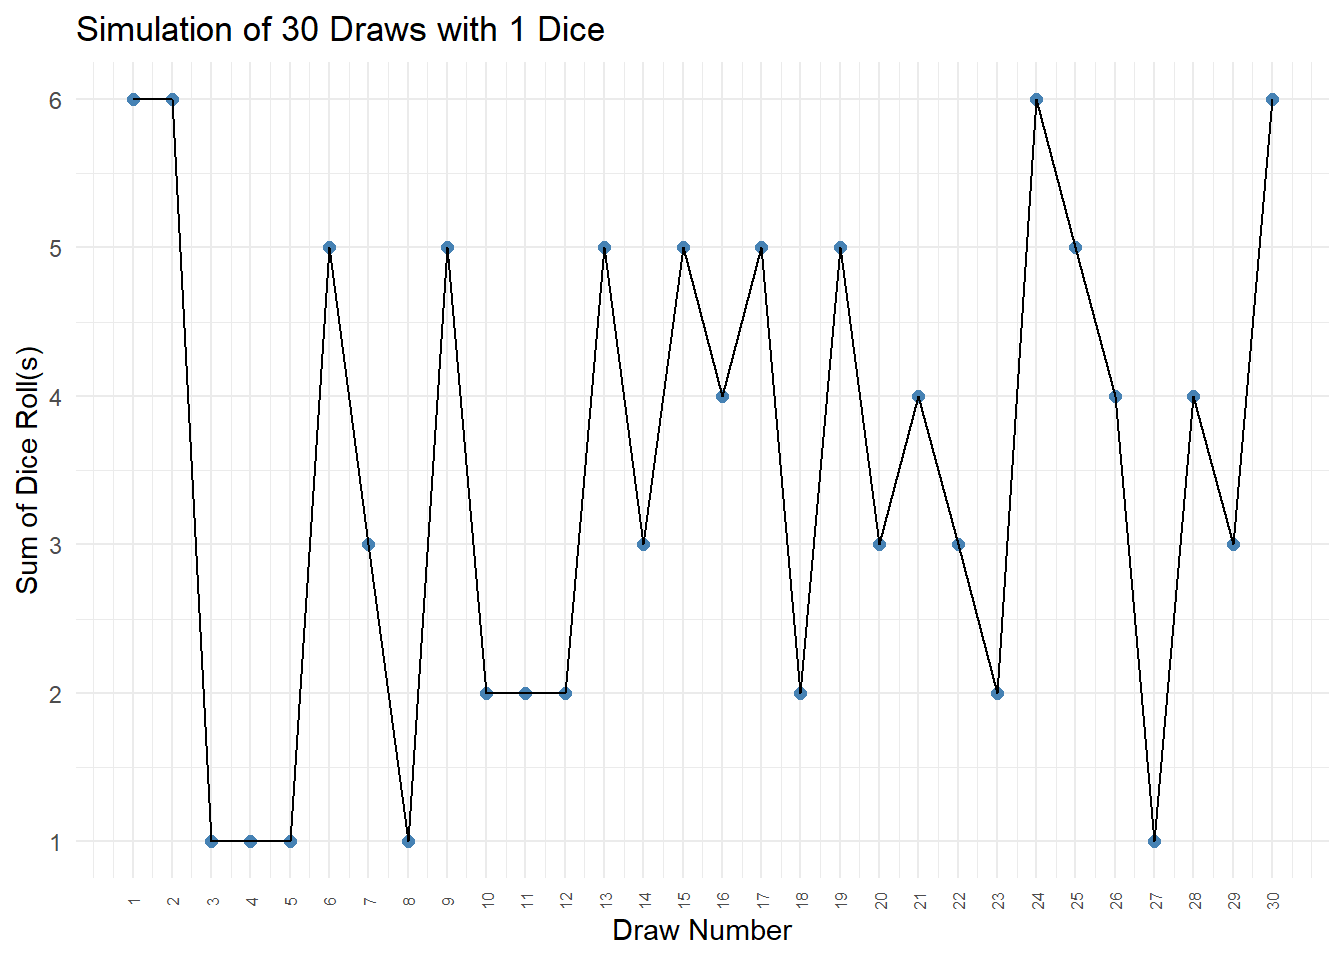
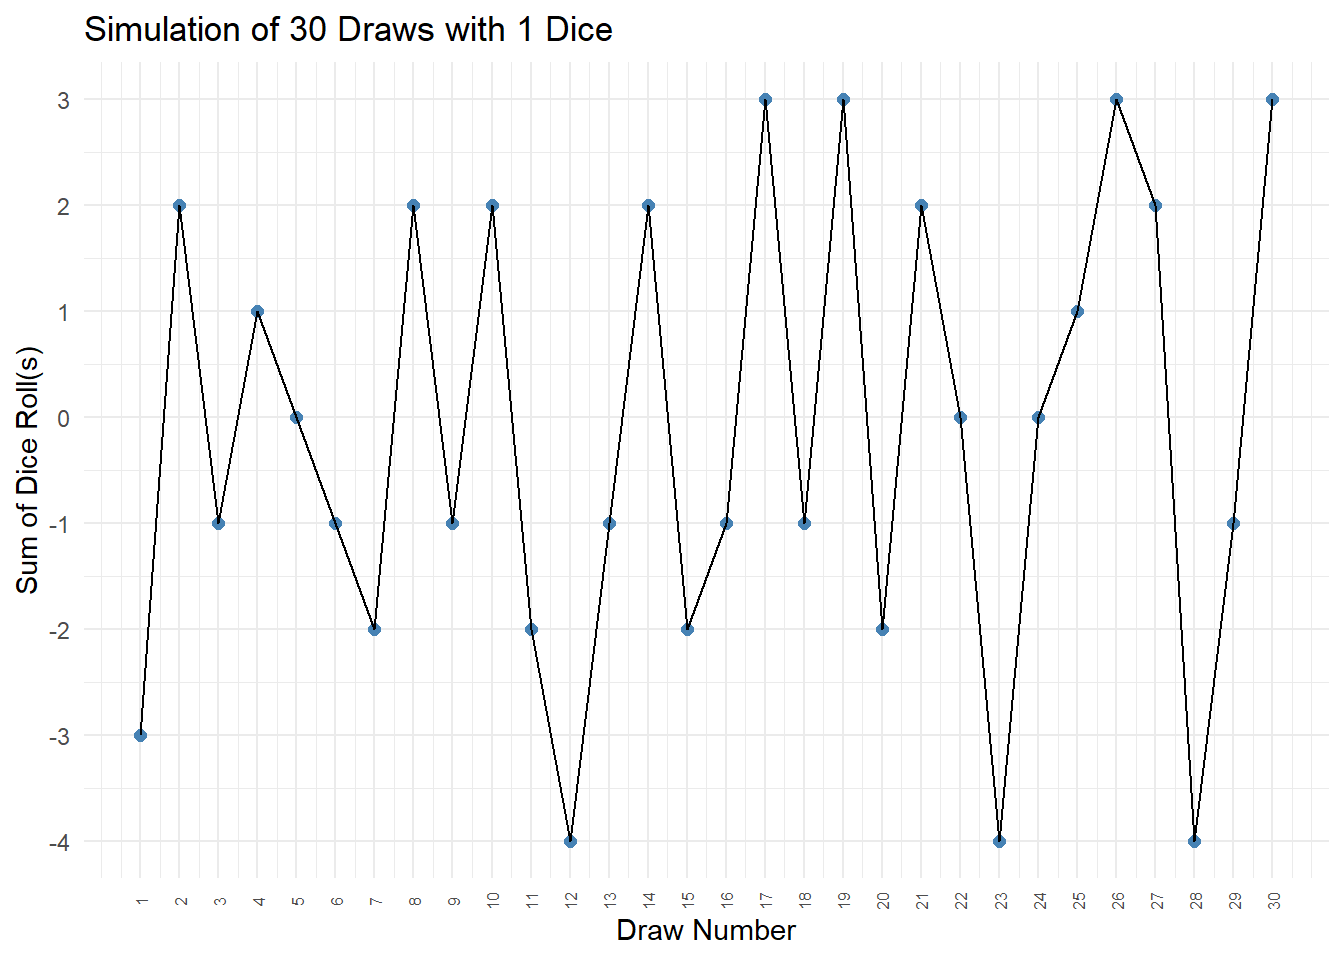
Lesson 4-1 Revised

diff --git a/docs/chapter_4_lesson_1.html b/docs/chapter_4_lesson_1.html
@@ -2,7 +2,7 @@
 <html xmlns="http://www.w3.org/1999/xhtml" lang="en" xml:lang="en"><head>
 
 <meta charset="utf-8">
-<meta name="generator" content="quarto-1.9.37">
+<meta name="generator" content="quarto-1.10.19">
 
 <meta name="viewport" content="width=device-width, initial-scale=1.0, user-scalable=yes">
 
@@ -12,10 +12,13 @@
 /* Default styles provided by pandoc.
 ** See https://pandoc.org/MANUAL.html#variables-for-html for config info.
 */
-code{white-space: pre-wrap;}
 span.smallcaps{font-variant: small-caps;}
-div.columns{display: flex; gap: min(4vw, 1.5em);}
-div.column{flex: auto; overflow-x: auto;}
+div.columns{display: flex; gap: 1.5em;}
+div.column{flex: auto;}
+@media screen {
+div.columns{gap: min(4vw, 1.5em);}
+div.column{overflow-x: auto;}
+}
 div.hanging-indent{margin-left: 1.5em; text-indent: -1.5em;}
 ul.task-list{list-style: none;}
 ul.task-list li input[type="checkbox"] {
@@ -77,14 +80,14 @@ pre > code.sourceCode > span > a:first-child::before { text-decoration: underlin
 <script src="site_libs/quarto-html/tippy.umd.min.js"></script>
 <script src="site_libs/quarto-html/anchor.min.js"></script>
 <link href="site_libs/quarto-html/tippy.css" rel="stylesheet">
-<link href="site_libs/quarto-html/quarto-syntax-highlighting-7f8f88aac4f3542376d5c11b86a4c14d.css" rel="stylesheet" class="quarto-color-scheme" id="quarto-text-highlighting-styles">
-<link href="site_libs/quarto-html/quarto-syntax-highlighting-dark-d0ae9245876894da5ac7e18953ecc5cc.css" rel="stylesheet" class="quarto-color-scheme quarto-color-alternate" id="quarto-text-highlighting-styles">
-<link href="site_libs/quarto-html/quarto-syntax-highlighting-7f8f88aac4f3542376d5c11b86a4c14d.css" rel="stylesheet" class="quarto-color-scheme-extra" id="quarto-text-highlighting-styles">
+<link href="site_libs/quarto-html/quarto-syntax-highlighting-bf27225e3a48a9273f3daa8f8e829971.css" rel="stylesheet" class="quarto-color-scheme" id="quarto-text-highlighting-styles">
+<link href="site_libs/quarto-html/quarto-syntax-highlighting-dark-b626d73c4c936ccc3cb08be7d45d1df6.css" rel="stylesheet" class="quarto-color-scheme quarto-color-alternate" id="quarto-text-highlighting-styles">
+<link href="site_libs/quarto-html/quarto-syntax-highlighting-bf27225e3a48a9273f3daa8f8e829971.css" rel="stylesheet" class="quarto-color-scheme-extra" id="quarto-text-highlighting-styles">
 <script src="site_libs/bootstrap/bootstrap.min.js"></script>
 <link href="site_libs/bootstrap/bootstrap-icons.css" rel="stylesheet">
-<link href="site_libs/bootstrap/bootstrap-b041374c8150d889bb96405f45666547.min.css" rel="stylesheet" append-hash="true" class="quarto-color-scheme" id="quarto-bootstrap" data-mode="light">
-<link href="site_libs/bootstrap/bootstrap-dark-ec2248fe4de8190a17429c976e9eb0a3.min.css" rel="stylesheet" append-hash="true" class="quarto-color-scheme quarto-color-alternate" id="quarto-bootstrap" data-mode="dark">
-<link href="site_libs/bootstrap/bootstrap-b041374c8150d889bb96405f45666547.min.css" rel="stylesheet" append-hash="true" class="quarto-color-scheme-extra" id="quarto-bootstrap" data-mode="light">
+<link href="site_libs/bootstrap/bootstrap-da5571b145051ad419dc96477e1f8419.min.css" rel="stylesheet" append-hash="true" class="quarto-color-scheme" id="quarto-bootstrap" data-mode="light">
+<link href="site_libs/bootstrap/bootstrap-dark-cf2d254af833ca0d68e19ded6c1b20ad.min.css" rel="stylesheet" append-hash="true" class="quarto-color-scheme quarto-color-alternate" id="quarto-bootstrap" data-mode="dark">
+<link href="site_libs/bootstrap/bootstrap-da5571b145051ad419dc96477e1f8419.min.css" rel="stylesheet" append-hash="true" class="quarto-color-scheme-extra" id="quarto-bootstrap" data-mode="light">
 <script id="quarto-search-options" type="application/json">{
   "location": "navbar",
   "copy-button": false,
@@ -114,7 +117,7 @@ pre > code.sourceCode > span > a:first-child::before { text-decoration: underlin
 }</script>
 
   <script src="https://cdnjs.cloudflare.com/polyfill/v3/polyfill.min.js?features=es6"></script>
-  <script defer="" src="https://cdn.jsdelivr.net/npm/mathjax@3/es5/tex-chtml-full.js" type="text/javascript"></script>
+  <script defer="" src="https://cdn.jsdelivr.net/npm/mathjax@4/tex-chtml.js" type="text/javascript"></script>
 
 <script type="text/javascript">
 const typesetMath = (el) => {
@@ -723,9 +726,10 @@ Simulate realizations from basic time series models in R
 <span id="cb1-4"><a href="#cb1-4" aria-hidden="true" tabindex="-1"></a>  fable,      <span class="co"># model(...), forecast(), tidy(), glance()...</span></span>
 <span id="cb1-5"><a href="#cb1-5" aria-hidden="true" tabindex="-1"></a>  feasts,     <span class="co"># ACF(), PACF()</span></span>
 <span id="cb1-6"><a href="#cb1-6" aria-hidden="true" tabindex="-1"></a>  ggtime,     <span class="co"># autoplot() for tsibbles</span></span>
-<span id="cb1-7"><a href="#cb1-7" aria-hidden="true" tabindex="-1"></a>  patchwork,  <span class="co"># + and / for ggplots</span></span>
-<span id="cb1-8"><a href="#cb1-8" aria-hidden="true" tabindex="-1"></a>  rio         <span class="co"># import()</span></span>
-<span id="cb1-9"><a href="#cb1-9" aria-hidden="true" tabindex="-1"></a>)</span></code></pre></div><button title="Copy to Clipboard" class="code-copy-button"><i class="bi"></i></button></div>
+<span id="cb1-7"><a href="#cb1-7" aria-hidden="true" tabindex="-1"></a>  rio,        <span class="co"># import()</span></span>
+<span id="cb1-8"><a href="#cb1-8" aria-hidden="true" tabindex="-1"></a>  pander,     <span class="co"># pander() markdown tables</span></span>
+<span id="cb1-9"><a href="#cb1-9" aria-hidden="true" tabindex="-1"></a>  patchwork   <span class="co"># + and / for ggplots</span></span>
+<span id="cb1-10"><a href="#cb1-10" aria-hidden="true" tabindex="-1"></a>)</span></code></pre></div><button title="Copy to Clipboard" class="code-copy-button"><i class="bi"></i></button></div>
 </div>
 </section>
 <section id="class-activity-white-noise-15-min" class="level2">
@@ -760,23 +764,25 @@ Simulate realizations from basic time series models in R
 </div>
 </div>
 <div class="callout-body-container callout-body">
-<p>A time series <span class="math inline">\(\{w_t: t = 1, 2, \ldots, n\}\)</span> is a <strong>discrete white noise (DWN)</strong> if the variables <span class="math inline">\(w_1, w_2, \ldots, w_n\)</span> are independent and identically distributed with mean 0. The assumption that the variables are identically distributed implies that there is a common variance denoted <span class="math inline">\(\sigma\)</span>. The assumption of independence means that the covariance (and correlation) between different variables will be zero: <span class="math inline">\(cov(w_i, w_j) = 0\)</span> and <span class="math inline">\(cor(w_i, w_j) = 0\)</span> if <span class="math inline">\(i \ne j\)</span>.</p>
+<p>A time series <span class="math inline">\(\{w_t: t = 1, 2, \ldots, n\}\)</span> is a <strong>discrete white noise (DWN)</strong> if the variables <span class="math inline">\(w_1, w_2, \ldots, w_n\)</span> are independent and identically distributed with mean 0. The assumption that the variables are identically distributed implies that there is a common variance denoted <span class="math inline">\(\sigma\)</span>. The assumption of independence implies that the covariance (and correlation) between different variables will be zero: <span class="math inline">\(cov(w_i, w_j) = 0\)</span> and <span class="math inline">\(cor(w_i, w_j) = 0\)</span> if <span class="math inline">\(i \ne j\)</span>.</p>
 <p>If the variables are normally distributed, i.e.&nbsp;<span class="math inline">\(w_i \sim N(0,\sigma^2)\)</span>, the DWN is called a <strong>Gaussian white noise</strong> process. The normal distribution is also known as the Gaussian distribution, after Carl Friedrich Gauss.</p>
 </div>
 </div>
 </section>
 <section id="dice-activity" class="level3">
 <h3 class="anchored" data-anchor-id="dice-activity">Dice Activity</h3>
-<p>You will receive a die from the professor. Roll the die 30 times and draw your results on the board using a scatter plot. Your final result should look something like this:</p>
+<p>Google “Roll 2 D6” to open Google dice roller and simulate the roll of two dice. Record the sum of the two numbers and then subtract 7 from your result. Call your result <em>Y</em>. Now, repeat this process 30 times. Create a time series plot of your results for the variable <em>Y</em> on the board. Your time plot should look something like this:</p>
 <div class="cell">
-<div class="code-copy-outer-scaffold"><div class="sourceCode cell-code" id="cb2"><pre class="sourceCode r code-with-copy"><code class="sourceCode r"><span id="cb2-1"><a href="#cb2-1" aria-hidden="true" tabindex="-1"></a>  results <span class="ot">&lt;-</span> <span class="fu">replicate</span>(<span class="dv">30</span>, <span class="fu">sum</span>(<span class="fu">sample</span>(<span class="dv">1</span><span class="sc">:</span><span class="dv">6</span>, <span class="dv">1</span>, <span class="at">replace =</span> <span class="cn">TRUE</span>)))</span>
+<details class="code-fold">
+<summary>Show the code</summary>
+<div class="code-copy-outer-scaffold"><div class="sourceCode cell-code" id="cb2"><pre class="sourceCode r code-with-copy"><code class="sourceCode r"><span id="cb2-1"><a href="#cb2-1" aria-hidden="true" tabindex="-1"></a>results <span class="ot">&lt;-</span> <span class="fu">replicate</span>(<span class="dv">30</span>, <span class="fu">sum</span>(<span class="fu">sample</span>(<span class="dv">1</span><span class="sc">:</span><span class="dv">6</span>, <span class="dv">2</span>, <span class="at">replace =</span> <span class="cn">TRUE</span>))) <span class="sc">-</span> <span class="dv">7</span></span>
 <span id="cb2-2"><a href="#cb2-2" aria-hidden="true" tabindex="-1"></a>  df <span class="ot">&lt;-</span> <span class="fu">data.frame</span>(<span class="at">Draw =</span> <span class="dv">1</span><span class="sc">:</span><span class="dv">30</span>, <span class="at">Value =</span> results)</span>
 <span id="cb2-3"><a href="#cb2-3" aria-hidden="true" tabindex="-1"></a>  </span>
-<span id="cb2-4"><a href="#cb2-4" aria-hidden="true" tabindex="-1"></a>  <span class="fu">ggplot</span>(df, <span class="fu">aes</span>(<span class="at">x =</span> Draw, <span class="at">y =</span> Value)) <span class="sc">+</span></span>
+<span id="cb2-4"><a href="#cb2-4" aria-hidden="true" tabindex="-1"></a><span class="fu">ggplot</span>(df, <span class="fu">aes</span>(<span class="at">x =</span> Draw, <span class="at">y =</span> Value)) <span class="sc">+</span></span>
 <span id="cb2-5"><a href="#cb2-5" aria-hidden="true" tabindex="-1"></a>    <span class="fu">geom_point</span>(<span class="at">color =</span> <span class="st">"steelblue"</span>, <span class="at">size =</span> <span class="dv">2</span>) <span class="sc">+</span></span>
-<span id="cb2-6"><a href="#cb2-6" aria-hidden="true" tabindex="-1"></a>    <span class="fu">geom_line</span>()<span class="sc">+</span></span>
+<span id="cb2-6"><a href="#cb2-6" aria-hidden="true" tabindex="-1"></a>    <span class="fu">geom_line</span>() <span class="sc">+</span></span>
 <span id="cb2-7"><a href="#cb2-7" aria-hidden="true" tabindex="-1"></a>    <span class="fu">scale_x_continuous</span>(<span class="at">breaks =</span> <span class="dv">1</span><span class="sc">:</span><span class="dv">30</span>) <span class="sc">+</span></span>
-<span id="cb2-8"><a href="#cb2-8" aria-hidden="true" tabindex="-1"></a>    <span class="fu">scale_y_continuous</span>(<span class="at">breaks =</span> <span class="fu">seq</span>(<span class="dv">1</span>, <span class="dv">6</span> <span class="sc">*</span> <span class="dv">1</span>, <span class="dv">1</span>)) <span class="sc">+</span></span>
+<span id="cb2-8"><a href="#cb2-8" aria-hidden="true" tabindex="-1"></a>    <span class="fu">scale_y_continuous</span>(<span class="at">breaks =</span> <span class="fu">seq</span>(<span class="sc">-</span><span class="dv">5</span>, <span class="dv">5</span>, <span class="dv">1</span>)) <span class="sc">+</span></span>
 <span id="cb2-9"><a href="#cb2-9" aria-hidden="true" tabindex="-1"></a>    <span class="fu">labs</span>(</span>
 <span id="cb2-10"><a href="#cb2-10" aria-hidden="true" tabindex="-1"></a>      <span class="at">title =</span> <span class="fu">paste</span>(<span class="st">"Simulation of"</span>, <span class="dv">30</span>, <span class="st">"Draws with"</span>, <span class="dv">1</span>, <span class="st">"Dice"</span>),</span>
 <span id="cb2-11"><a href="#cb2-11" aria-hidden="true" tabindex="-1"></a>      <span class="at">x =</span> <span class="st">"Draw Number"</span>,</span>
@@ -784,6 +790,7 @@ Simulate realizations from basic time series models in R
 <span id="cb2-13"><a href="#cb2-13" aria-hidden="true" tabindex="-1"></a>    ) <span class="sc">+</span></span>
 <span id="cb2-14"><a href="#cb2-14" aria-hidden="true" tabindex="-1"></a>    <span class="fu">theme_minimal</span>() <span class="sc">+</span></span>
 <span id="cb2-15"><a href="#cb2-15" aria-hidden="true" tabindex="-1"></a>    <span class="fu">theme</span>(<span class="at">axis.text.x =</span> <span class="fu">element_text</span>(<span class="at">angle =</span> <span class="dv">90</span>, <span class="at">vjust =</span> <span class="fl">0.5</span>, <span class="at">size =</span> <span class="dv">6</span>))</span></code></pre></div><button title="Copy to Clipboard" class="code-copy-button"><i class="bi"></i></button></div>
+</details>
 <div class="cell-output-display">
 <div>
 <figure class="figure">
@@ -792,19 +799,20 @@ Simulate realizations from basic time series models in R
 </div>
 </div>
 </div>
-<p>Now repeat the process with two dice. Add a histogram plotting the number of occurrences of each value like:</p>
+<p>Create a histogram plotting the number of occurrences of each result from your simulation. It will probably look something like this:</p>
 <div class="cell">
-<div class="code-copy-outer-scaffold"><div class="sourceCode cell-code" id="cb3"><pre class="sourceCode r code-with-copy"><code class="sourceCode r"><span id="cb3-1"><a href="#cb3-1" aria-hidden="true" tabindex="-1"></a>  results <span class="ot">&lt;-</span> <span class="fu">replicate</span>(<span class="dv">30</span>, <span class="fu">sum</span>(<span class="fu">sample</span>(<span class="dv">1</span><span class="sc">:</span><span class="dv">6</span>, <span class="dv">2</span>, <span class="at">replace =</span> <span class="cn">TRUE</span>)))</span>
-<span id="cb3-2"><a href="#cb3-2" aria-hidden="true" tabindex="-1"></a>  df <span class="ot">&lt;-</span> <span class="fu">data.frame</span>(<span class="at">Draw =</span> <span class="dv">1</span><span class="sc">:</span><span class="dv">30</span>, <span class="at">Value =</span> results)</span>
-<span id="cb3-3"><a href="#cb3-3" aria-hidden="true" tabindex="-1"></a><span class="fu">ggplot</span>(df, <span class="fu">aes</span>(<span class="at">x =</span> Value)) <span class="sc">+</span></span>
-<span id="cb3-4"><a href="#cb3-4" aria-hidden="true" tabindex="-1"></a>    <span class="fu">geom_histogram</span>(<span class="at">binwidth =</span> <span class="dv">1</span>, <span class="at">fill =</span> <span class="st">"steelblue"</span>, <span class="at">color =</span> <span class="st">"black"</span>) <span class="sc">+</span></span>
-<span id="cb3-5"><a href="#cb3-5" aria-hidden="true" tabindex="-1"></a>    <span class="fu">scale_x_continuous</span>(<span class="at">breaks =</span> <span class="fu">seq</span>(<span class="dv">2</span>, <span class="dv">6</span> <span class="sc">*</span> <span class="dv">2</span>, <span class="dv">1</span>)) <span class="sc">+</span></span>
-<span id="cb3-6"><a href="#cb3-6" aria-hidden="true" tabindex="-1"></a>    <span class="fu">labs</span>(</span>
-<span id="cb3-7"><a href="#cb3-7" aria-hidden="true" tabindex="-1"></a>      <span class="at">title =</span> <span class="st">"Distribution of Dice Roll Sums"</span>,</span>
-<span id="cb3-8"><a href="#cb3-8" aria-hidden="true" tabindex="-1"></a>      <span class="at">x =</span> <span class="st">"Sum of Dice Roll(s)"</span>,</span>
-<span id="cb3-9"><a href="#cb3-9" aria-hidden="true" tabindex="-1"></a>      <span class="at">y =</span> <span class="st">"Frequency"</span></span>
-<span id="cb3-10"><a href="#cb3-10" aria-hidden="true" tabindex="-1"></a>    ) <span class="sc">+</span></span>
-<span id="cb3-11"><a href="#cb3-11" aria-hidden="true" tabindex="-1"></a>    <span class="fu">theme_minimal</span>()</span></code></pre></div><button title="Copy to Clipboard" class="code-copy-button"><i class="bi"></i></button></div>
+<details class="code-fold">
+<summary>Show the code</summary>
+<div class="code-copy-outer-scaffold"><div class="sourceCode cell-code" id="cb3"><pre class="sourceCode r code-with-copy"><code class="sourceCode r"><span id="cb3-1"><a href="#cb3-1" aria-hidden="true" tabindex="-1"></a><span class="fu">ggplot</span>(df, <span class="fu">aes</span>(<span class="at">x =</span> Value)) <span class="sc">+</span></span>
+<span id="cb3-2"><a href="#cb3-2" aria-hidden="true" tabindex="-1"></a>    <span class="fu">geom_histogram</span>(<span class="at">binwidth =</span> <span class="dv">1</span>, <span class="at">fill =</span> <span class="st">"steelblue"</span>, <span class="at">color =</span> <span class="st">"black"</span>) <span class="sc">+</span></span>
+<span id="cb3-3"><a href="#cb3-3" aria-hidden="true" tabindex="-1"></a>    <span class="fu">scale_x_continuous</span>(<span class="at">breaks =</span> <span class="fu">seq</span>(<span class="sc">-</span><span class="dv">6</span>, <span class="dv">6</span>, <span class="dv">1</span>)) <span class="sc">+</span></span>
+<span id="cb3-4"><a href="#cb3-4" aria-hidden="true" tabindex="-1"></a>    <span class="fu">labs</span>(</span>
+<span id="cb3-5"><a href="#cb3-5" aria-hidden="true" tabindex="-1"></a>      <span class="at">title =</span> <span class="st">"Distribution of Dice Roll Sums"</span>,</span>
+<span id="cb3-6"><a href="#cb3-6" aria-hidden="true" tabindex="-1"></a>      <span class="at">x =</span> <span class="st">"Sum of Dice Roll(s)"</span>,</span>
+<span id="cb3-7"><a href="#cb3-7" aria-hidden="true" tabindex="-1"></a>      <span class="at">y =</span> <span class="st">"Frequency"</span></span>
+<span id="cb3-8"><a href="#cb3-8" aria-hidden="true" tabindex="-1"></a>    ) <span class="sc">+</span></span>
+<span id="cb3-9"><a href="#cb3-9" aria-hidden="true" tabindex="-1"></a>    <span class="fu">theme_minimal</span>()</span></code></pre></div><button title="Copy to Clipboard" class="code-copy-button"><i class="bi"></i></button></div>
+</details>
 <div class="cell-output-display">
 <div>
 <figure class="figure">
@@ -824,7 +832,7 @@ Simulate realizations from basic time series models in R
 </div>
 <div class="callout-body-container callout-body">
 <ul>
-<li>Draw a histogram of the expected distribution. How does your results differ?</li>
+<li>Draw a histogram of the <em>expected</em> distribution. How does your results differ?</li>
 <li>What do you expect would happen if you rolled the 2 dice 5000 times?</li>
 <li>Is the process of rolling 2 dice a discrete white noise process?</li>
 </ul>
@@ -884,8 +892,8 @@ Simulate realizations from basic time series models in R
 <p>Do the following with a partner:</p>
 <ol type="1">
 <li>Click on the [Simulate!] button above to generate a new simulated realization of the DWN process.</li>
-<li>Out of the 20 autocorrelations represented in the correlogram, count the number that are statistically significant.</li>
-<li>Repeat Steps 1. and 2. ten times, so you will have displayed 200 autocorrelations.</li>
+<li>Out of the 30 autocorrelations represented in the correlogram, count the number that are statistically significant.</li>
+<li>Repeat Steps 1 and 2 ten times, so you will have displayed 300 autocorrelations.</li>
 </ol>
 <ul>
 <li>What percentage of your autocorrelations were statistically significant?</li>
@@ -897,6 +905,7 @@ Simulate realizations from basic time series models in R
 </section>
 <section id="visualizing-white-noise" class="level3">
 <h3 class="anchored" data-anchor-id="visualizing-white-noise">Visualizing White Noise</h3>
+<p>Now, we will simulate 2500 observations from a Gaussian white noise process.</p>
 <div class="cell">
 <div class="code-copy-outer-scaffold"><div class="sourceCode cell-code" id="cb4"><pre class="sourceCode r code-with-copy"><code class="sourceCode r"><span id="cb4-1"><a href="#cb4-1" aria-hidden="true" tabindex="-1"></a><span class="co"># Set random seed</span></span>
 <span id="cb4-2"><a href="#cb4-2" aria-hidden="true" tabindex="-1"></a><span class="fu">set.seed</span>(<span class="dv">10</span>)</span>
@@ -1012,7 +1021,7 @@ Simulate realizations from basic time series models in R
 <div class="callout-body-container callout-body">
 <p>A DWN process will have the following properties:</p>
 <ul>
-<li>There is a discrete observations.</li>
+<li>The observed time values are discrete.</li>
 <li>The mean of the observations is zero.</li>
 <li>The variance of the observations is finite.</li>
 <li>Successive observations are uncorrelated.</li>
@@ -1054,7 +1063,6 @@ Simulate realizations from basic time series models in R
 </div>
 <div class="callout-body-container callout-body">
 <p>Let <span class="math inline">\(\{x_t\}\)</span> be a time series. Then, <span class="math inline">\(\{x_t\}\)</span> is a <strong>random walk</strong> if it can be expressed as <span class="math display">\[
-  x_{t} = x_{t-1} + w_{t}
 \]</span> where <span class="math inline">\(\{w_t\}\)</span> is a random process.</p>
 </div>
 </div>
@@ -1299,7 +1307,7 @@ cov ( w_i, w_j ) =
 <p>Also, when random variables are independent, the covariance of a sum is the sum of the covariance.</p>
 <p>Hence, <span class="math display">\[\begin{align*}
   cov(x_t, x_{t+k})
-    &amp;= cov ( \sum_{i=1}^t w_i, \sum_{j=1}^{t+K} w_j ) \\
+    &amp;= cov \left( \sum_{i=1}^t w_i, \sum_{j=1}^{t+K} w_j \right) \\
     &amp;= \sum_{i=j} cov ( w_i, w_j ) \\
     &amp;= \sum_{i=1}^t \sigma^2 \\
     &amp;= t \sigma^2
@@ -1355,7 +1363,16 @@ cov ( w_i, w_j ) =
 <center>
 <span class="math inline">\(x_{1} = 5\)</span>,<span class="math inline">\(~\)</span> <span class="math inline">\(x_{2} = 10\)</span>,<span class="math inline">\(~\)</span> <span class="math inline">\(x_{3} = 13\)</span>,<span class="math inline">\(~\)</span> <span class="math inline">\(x_{4} = 8\)</span>,<span class="math inline">\(~\)</span> <span class="math inline">\(x_{5} = 4\)</span>,<span class="math inline">\(~\)</span> <span class="math inline">\(x_{6} = 3\)</span>,<span class="math inline">\(~\)</span> <span class="math inline">\(x_{7} = 9\)</span>,<span class="math inline">\(~\)</span> <span class="math inline">\(x_{8} = 2\)</span>
 </center>
-<p>Check Your Understanding Solutions: . - <span class="math inline">\(\mathbf{B} x_8 = x_7 = 9\)</span> - <span class="math inline">\(\mathbf{B}^5 x_8 = x_3 = 13\)</span> - <span class="math inline">\((\mathbf{B}^5 - \mathbf{B} ) x_8 = x_3 - x_7 = 13 - 9 = 4\)</span> - <span class="math inline">\(( \mathbf{B}^2 - 6 \mathbf{B} + 9 ) x_8 = x_6 - 6 (x_7) + 9 (x_{t}) = 3 - 6 (9) + 9 (2) = -33\)</span> - <span class="math inline">\(( (\mathbf{B} - 6) \mathbf{B} + 9 ) x_8 = -33\)</span> - <span class="math inline">\(( \mathbf{B} - 3 )^2 x_8 = -33\)</span> - <span class="math inline">\(( 1 - \frac{1}{2} B - \frac{1}{4} B^2 - \frac{1}{8} B^3 ) x_8 = x_8 - \frac{1}{2} x_7 - \frac{1}{4} x_6 - \frac{1}{8} x_5 = 2 - \frac{1}{2} (9) - \frac{1}{4} (3) - \frac{1}{8} (4) = -3.75\)</span></p>
+<p>Check Your Understanding Solutions:</p>
+<ul>
+<li><p><span class="math inline">\(\mathbf{B} x_8 = x_7 = 9\)</span></p></li>
+<li><p><span class="math inline">\(\mathbf{B}^5 x_8 = x_3 = 13\)</span></p></li>
+<li><p><span class="math inline">\((\mathbf{B}^5 - \mathbf{B} ) x_8 = x_3 - x_7 = 13 - 9 = 4\)</span></p></li>
+<li><p><span class="math inline">\(( \mathbf{B}^2 - 6 \mathbf{B} + 9 ) x_8 = x_6 - 6 (x_7) + 9 (x_{t}) = 3 - 6 (9) + 9 (2) = -33\)</span></p></li>
+<li><p><span class="math inline">\(( (\mathbf{B} - 6) \mathbf{B} + 9 ) x_8 = -33\)</span></p></li>
+<li><p><span class="math inline">\(( \mathbf{B} - 3 )^2 x_8 = -33\)</span></p></li>
+<li><p><span class="math inline">\(( 1 - \frac{1}{2} B - \frac{1}{4} B^2 - \frac{1}{8} B^3 ) x_8 = x_8 - \frac{1}{2} x_7 - \frac{1}{4} x_6 - \frac{1}{8} x_5 = 2 - \frac{1}{2} (9) - \frac{1}{4} (3) - \frac{1}{8} (4) = -3.75\)</span></p></li>
+</ul>
 </div>
 
 

diff --git a/docs/chapter_3_lesson_5.html b/docs/chapter_3_lesson_5.html
@@ -1218,7 +1218,8 @@ Table&nbsp;1: Holt-Winters smoothing for BYU-Idaho campus enrollments
   \right)
 }{p}
 \]</span></li>
-<li>Let <span class="math inline">\(s_{1-p} = s_{2-p} = \cdots = s_{3-p} = 1\)</span>, and set <span class="math inline">\(s_1 = s_{1-p}\)</span>.</li>
+<li>Let <span class="math inline">\(s_{1-p} = s_{2-p} = \cdots = s_{3-p} = 1\)</span>.</li>
+<li>Set <span class="math inline">\(s_1 = s_{1-p}\)</span>.</li>
 <li>Compute the values of <span class="math inline">\(a_t\)</span>, <span class="math inline">\(b_t\)</span>, and <span class="math inline">\(s_t\)</span> for all rows with observed time series data.</li>
 <li>Find <span class="math inline">\(\hat x_t = a_t \cdot s_t\)</span> for all rows with data.</li>
 <li>Compute the prediction <span class="math inline">\(\hat x_{n+k|n} = \left( a_n + k \cdot b_n \right) \cdot s_{n+k-p}\)</span> for the future values.</li>
